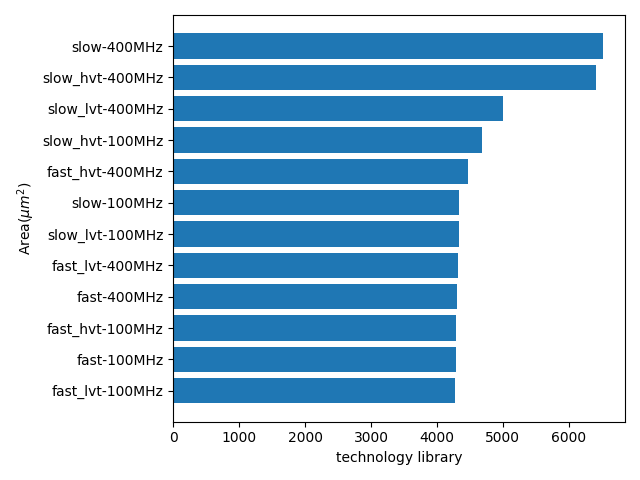
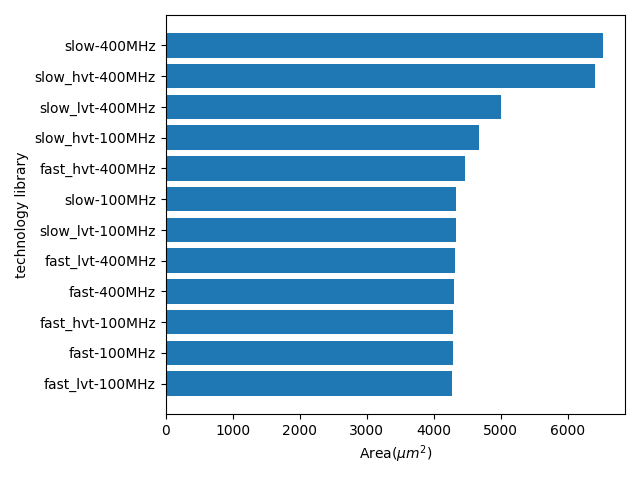
added subblock analysis

diff --git a/area_parser.py b/area_parser.py
@@ -289,9 +289,9 @@ def analyze_benchmark_reports(benchmark_name:str):
         timing_plt.append((corner, timing))
         power_plt.append((corner, power))
 
-    plot_barh(area_plt, f'figs/corner/{benchmark_name}/area.png', 'technology library', 'Area($\\mu m^2$)')
-    plot_barh(timing_plt, f'figs/corner/{benchmark_name}/timing.png', 'technology library', 'Timing(ps)')
-    plot_barh(power_plt, f'figs/corner/{benchmark_name}/power.png', 'technology library', 'Power(W)', 30)
+    plot_barh(area_plt, f'figs/corner/{benchmark_name}/area.png', 'Area($\\mu m^2$)', 'technology library')
+    plot_barh(timing_plt, f'figs/corner/{benchmark_name}/timing.png', 'Timing(ps)', 'technology library')
+    plot_barh(power_plt, f'figs/corner/{benchmark_name}/power.png', 'Power(W)', 'technology library', 30)
 
     print(gen_latex_code_figure(f'figs/corner/{benchmark_name}/area.png', f'Area comparision for {benchmark}'))
     print(gen_latex_code_figure(f'figs/corner/{benchmark_name}/timing.png', f'Area comparision for {benchmark}'))
@@ -322,19 +322,27 @@ def analyze_benchmark_reports(benchmark_name:str):
             print(f"\t{corner}: Area = {area:.2f}, Timing = {timing}, Power = {power:.6f}")
     
     # 3 & 4. Identify most power-consuming and largest area sub-blocks
-    print("\n\t3 & 4. Sub-block Analysis:")
+    print("\n\t\\subsection{Sub-block Analysis}")
+    print(f"""\\begin{{table}}[H]
+    \\centering
+    \\begin{{tabular}}{{|c|c|c|}}
+        \\hline
+        Technology Library & Highest Area Sub-block & Highest Power Sub-block \\\\ 
+    """)
     for corner in library_corners:
         try:
             result = parse_reports(f'{benchmark_name}', corner)
             max_area_subblock = result[1][0]
             max_power_subblock = result[1][1]
             
-            print(f"\n\tCorner {naming_conv[corner]}:")
-            print(f"\tHighest Area Sub-block: {max_area_subblock[0]}, Area = {max_area_subblock[2]:.2f}")
-            print(f"\tHighest Power Sub-block: {max_power_subblock[0]}, Power = {max_power_subblock[1]:.2f}")
+            print(f"\t {naming_conv[corner]} & {max_area_subblock[0]}, Area = {max_area_subblock[2]:.2f} $\mu m^2$ & {max_power_subblock[0]}, Power = {1e3*max_power_subblock[1]:.3g} mW \\\\")
+            print('     \\hline')
         except Exception as e:
             print(f"Error processing corner {corner}: {e}")
-
+    print(f"""       \\end{{tabular}}
+    \\caption{{Analysis of the {benchmark_name} benchmark}}
+    \\label{{tab:sub-block-analysis-{fixed_bname}}}
+\\end{{table}}""")
 
 # Benchmarks to analyze
 benchmarks = ['UART', 'itc99/b14', 'itc99/b15', 'iscas85', 'cep/IIR', 'cep/FIR', 'custom/FADD_Combinational', 'custom/FADD_Pipelined']
